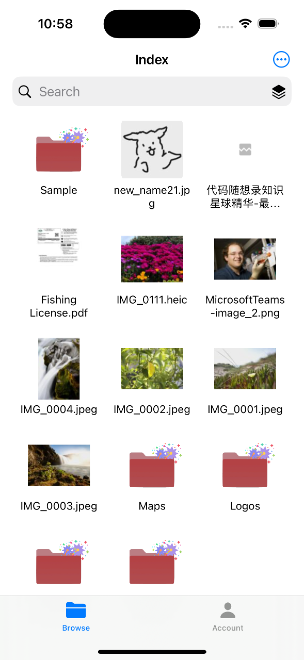
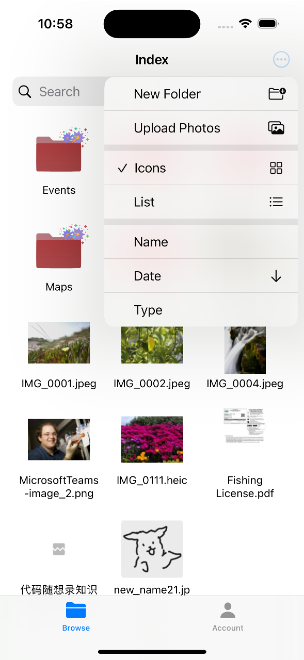
Update: Add demo images

diff --git a/README.md b/README.md
@@ -35,17 +35,47 @@ In response to these issues, we have developed a tailored iOS app for MediaBeaco
 
 ### 1. Login
 
-| Login Page | |
-| :---: | :---: |
-| <img src="images/login-0.png" width="300" />|<img src="images/login-1.png" width="300" />|
+- Initiate a redirect to the Duke OAuth authentication page.
+- Upon successful authentication, securely store the **AuthToken** within the iOS **UserDefaults** system.
+- Note that the AuthToken remains valid for a period of **7 days**.
+- After authentication and token storage, navigate to the main folder page.
+
+<table>
+  <tr>
+    <!-- Header spanning across two columns -->
+    <th colspan="2" style="text-align:center;">Login Page</th>
+  </tr>
+  <tr style="text-align:center;">
+    <!-- Images in individual cells, centered -->
+    <td><img src="images/login-0.png" style="width:300px; height:auto;" /></td>
+    <td><img src="images/login-1.png" style="width:300px; height:auto;" /></td>
+  </tr>
+</table>
 
 
 
 ### 2. Browse Folder
 
-| Browse Folder | |
-| :---: | :---: |
-| <img src="images/folder-0.png" width="300" />|<img src="images/folder-1.png" width="300" />|
+- Switch between **Icon** or **List** view using the toggle on the top-right menu bar.
+- Organize files by **Name**, **Date**, or **Type**, with options for both ascending and descending order.
+- Ensure all operations load **asynchronously**, with a **Retry Mechanism** for enhanced reliability.
+
+<table>
+  <tr>
+    <!-- Header spanning across two columns -->
+    <th colspan="2" style="text-align:center;">Browse Folder </th>
+  </tr>
+  <tr style="text-align:center;">
+    <!-- Images in individual cells, centered -->
+    <td><img src="images/folder-0.png" style="width:300px; height:auto;" /></td>
+    <td><img src="images/folder-1.png" style="width:300px; height:auto;" /></td>
+  </tr>
+    <tr style="text-align:center;">
+    <!-- Images in individual cells, centered -->
+    <td><img src="images/folder-2.png" style="width:300px; height:auto;" /></td>
+    <td><img src="images/folder-3.png" style="width:300px; height:auto;" /></td>
+  </tr>
+</table>
 
 
 
@@ -61,7 +91,7 @@ In response to these issues, we have developed a tailored iOS app for MediaBeaco
 
 ## How to Run 
 
-
+![Alt text](image-4.png)
 
 ## 1. Project Management (Notion)
 
